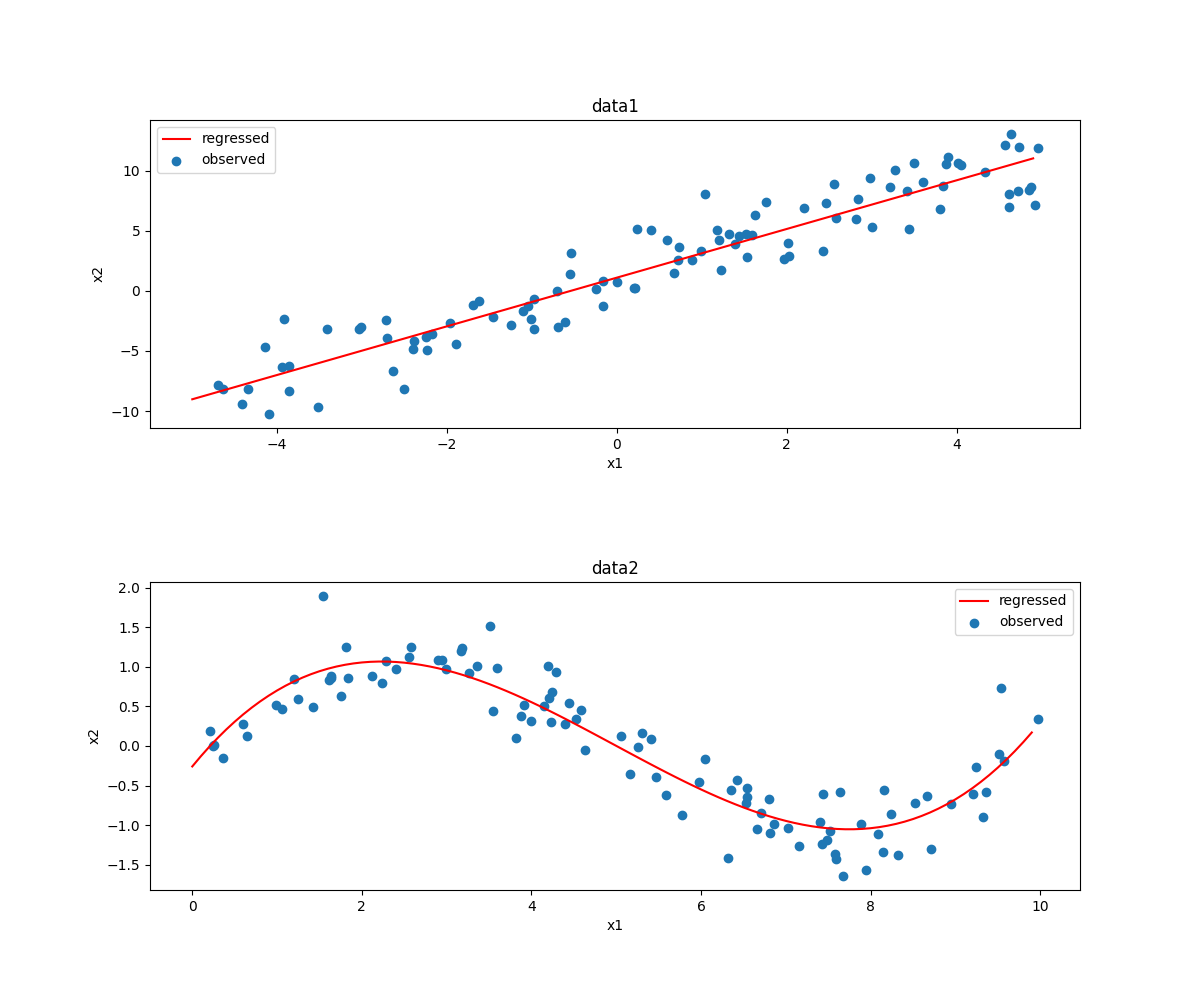
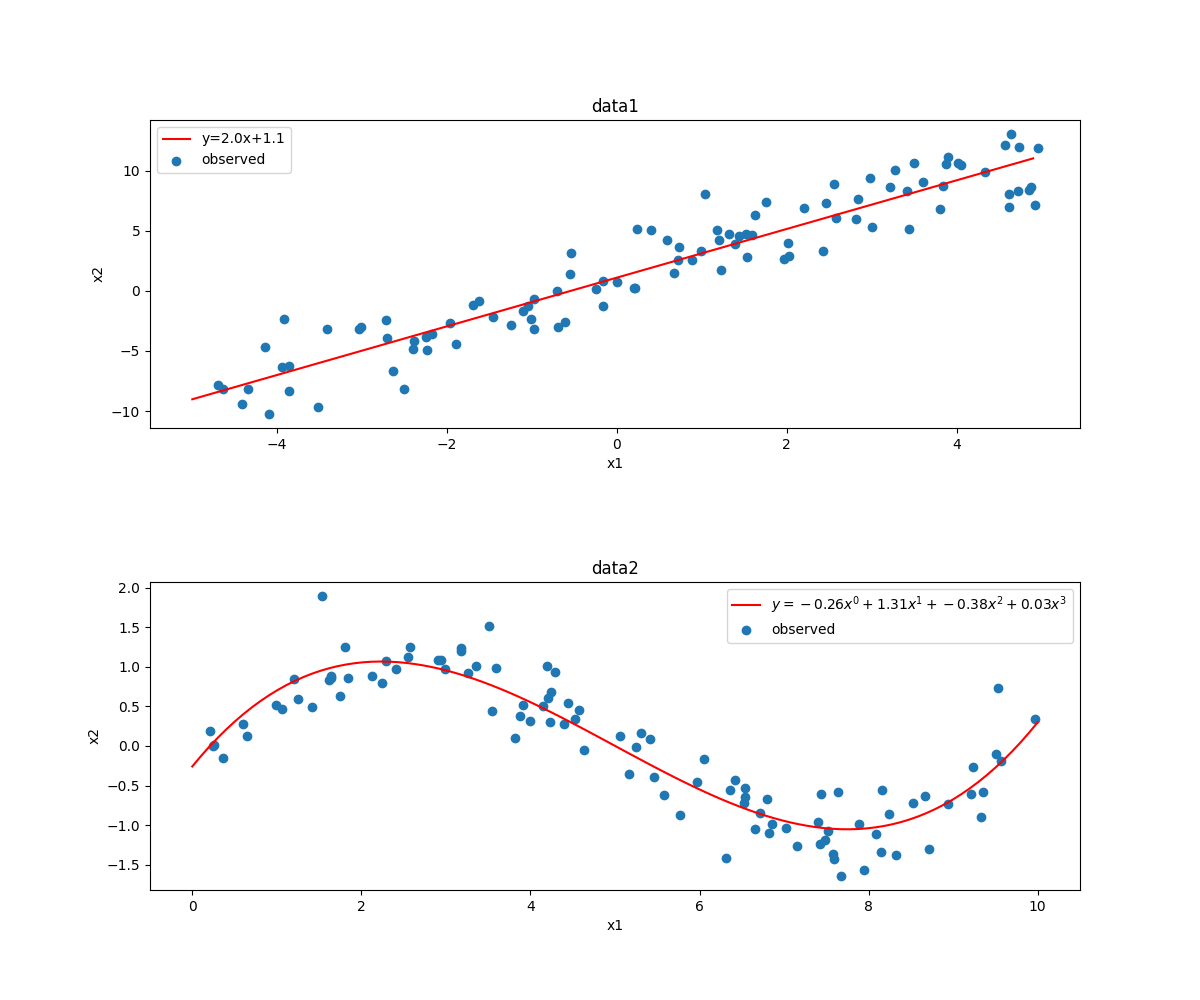
凡例に数式を追加と指摘箇所の訂正

diff --git a/ex3/r_tanaka/main.py b/ex3/r_tanaka/main.py
@@ -3,6 +3,47 @@ import numpy as np
 import matplotlib.pyplot as plt
 
 
+def latex_for_polynomial_regression(deg, coef):
+    """prepare a label in latex format for the graph of polynomial regression
+
+    Args:
+        deg (int): degree for multiple regression
+        coef (ndarray): partial regression coefficients
+
+    Returns:
+        str: a label in latex format
+    """
+    formula = str("$y=")
+    for i in range(deg):
+        formula += (str(round(coef[i][0], 2))+"x^{"+str(i)+"}+")
+    formula += (str(round(coef[i+1][0], 2))+"x^{"+str(i+1)+"}$")
+    return formula
+
+
+def latex_for_maltiple_regression(deg, coef):
+    """prepare a label in latex format for the graph of maltiple regression
+
+    Args:
+        deg (int): degree for multiple regression
+        coef (ndarray): partial regression coefficients
+
+    Returns:
+        str: a label in latex format
+    """
+    formula = str("$y=")
+    w = 0
+    for i in range(deg):
+        for k in range(deg + 1 - i):
+            formula += (str(round(coef[w][0], 2))+"x1^{"+str(i)+"}x2^{"+str(k)+"}+")
+            w += 1
+    i += 1
+    for k in range(deg - i):
+        formula += (str(round(coef[w][0], 2))+"x1^{"+str(i)+"x2^{"+str(k)+"}+")
+        w += 1
+    formula += (str(round(coef[w][0], 2))+"x1^{"+str(i)+"}x2^{"+str(k+1)+"}$")
+    return formula
+
+
 def plot_linear_regression(x_input, y_input, ax):
     """plot linear regression
 
@@ -20,7 +61,7 @@ def plot_linear_regression(x_input, y_input, ax):
     y = a * x + b
 
     # plot
-    ax.plot(x, y, color='r', label="regressed")
+    ax.plot(x, y, color='r', label="y={:.1f}x+{:.1f}".format(a, b))
     ax.legend()
 
 
@@ -35,36 +76,34 @@ def plot_polynomial_regression(x_input, y_input, deg, ax, alpha=1.0):
         alpha(float): regularization term
     """
     # create array X
-    list = []
-    for x in x_input:
-        tmp = []
-        for j in range(0, deg + 1):
-            tmp.append(x ** j)
-        list.append(tmp)
-    X = np.array(list, dtype=float)
+    j = np.arange(deg+1)
+    # x_input[:,np.newaxis].shape==(datasize, 1)
+    # j[np.newaxis,:].shape==(1, deg+1)
+    # (datasize, deg+1) <- (datasize, 1) ** (1, deg+1)
+    X = x_input[:, np.newaxis]**j[np.newaxis, :]
 
     # prepare for regularization
     alpha = float(alpha)
     eye = np.eye(X.shape[1])
 
     # vectorize y_input
-    vec_y = np.array([[y] for y in y_input])
+    vec_y = y_input[:, np.newaxis]
 
     # find the partial regression coefficient
     coef = ((np.linalg.inv(X.T @ X + alpha * eye)) @ X.T) @ vec_y
 
-    # prepare x from 0 to 10 in increments of 0.1
-    x_axis = np.arange(0, 10, 0.1)
+    # prepare x as an equally spaced array from 0 to 10 with 100 elements
+    x_axis = np.linspace(0, 10, 100)
 
-    y_axis = []
-    for z in x_axis:
-        val = 0
-        for i in range(len(coef)):
-            val += coef[i] * z ** i
-        y_axis.append(val)
+    # find y from the partial regression coefficients
+    j = np.arange(len(coef))
+    y_axis = (x_axis[:, np.newaxis] ** j[np.newaxis, :]) @ coef
+
+    # prepare labels for the graph
+    formula = latex_for_polynomial_regression(deg, coef)
 
     # plot
-    ax.plot(x_axis, y_axis, color='r', label="regressed")
+    ax.plot(x_axis, y_axis, color='r', label=formula)
     ax.legend()
 
 
@@ -75,12 +114,12 @@ def multiple_regression(x_input1, x_input2, y_input, deg, ax, alpha=1.0):
         x_input1 (ndarray): explanatory variable
         x_input2 (ndarray): explanatory variable
         y_input (ndarray): response variable
-        deg (int): degree for polynomial regression
+        deg (int): degree for multiple regression
         ax (list): list of axes objecs
         alpha(float): regularization term
     """
     # vectorize y_input
-    vec_y = np.array([[y] for y in y_input])
+    vec_y = y_input[:, np.newaxis]
 
     # create array X
     list_X = []
@@ -103,6 +142,7 @@ def multiple_regression(x_input1, x_input2, y_input, deg, ax, alpha=1.0):
     # generate mesh grid
     x1, x2 = np.meshgrid(np.linspace(-5, 5, 100), np.linspace(0, 10, 100))
 
+    # find y from the partial regression coefficients
     y = 0
     w = 0
     for i in range(deg + 1):
@@ -110,7 +150,11 @@ def multiple_regression(x_input1, x_input2, y_input, deg, ax, alpha=1.0):
             y += coef[w] * (x1 ** i) * (x2 ** k)
             w += 1
 
-    ax.plot_wireframe(x1, x2, y, color='r', label="regressed")
+    # prepare labels for the graph
+    formula = latex_for_maltiple_regression(deg, coef)
+
+    # plot
+    ax.plot_wireframe(x1, x2, y, color='r', label=formula)
     ax.legend()
 
 
